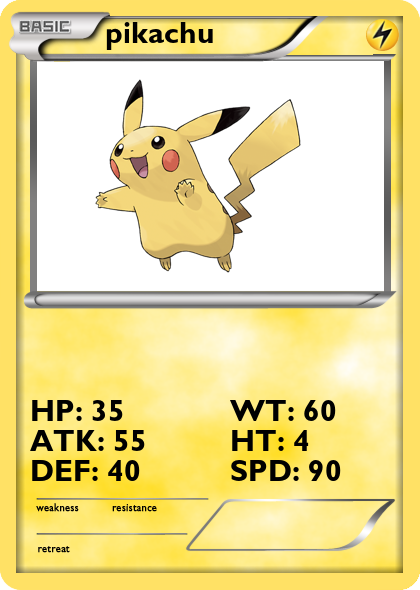
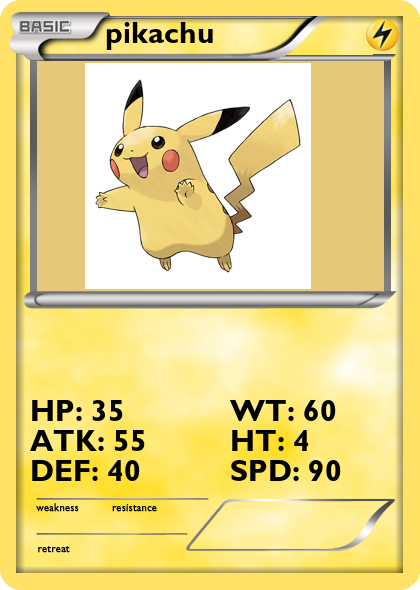
locate and apply dominant color in pokemon image

Changed region(s): [[0.0619, 0.0915, 0.9286, 0.5186]]

diff --git a/main.py b/main.py
@@ -1,0 +1,98 @@
+from PIL import Image, ImageDraw, ImageFont
+import requests
+from colorthief import ColorThief
+
+url = 'https://pokeapi.co/api/v2/pokemon/'
+
+def getInfo(call):
+  r = requests.get(call)
+  if r.status_code == 204:
+    return {'name': 'Null'}
+  return r.json()
+
+def getImage(link):
+   data = requests.get(link).content
+   f = open('temp/pokepic.png', 'wb')
+   f.write(data)
+   f.close()
+
+
+def get_pokemon():
+   try:
+      pokemon_search = input("Search for a pokemon: ")
+      pokemon_info = getInfo(url + pokemon_search)
+   except requests.exceptions.JSONDecodeError:
+      print('Invalid pokemon')
+      get_pokemon()
+
+   if pokemon_info['types'][0]['type']['name'] == 'colorless' or pokemon_info['types'][0]['type']['name'] == 'normal' or pokemon_info['types'][0]['type']['name'] == 'stellar' or pokemon_info['types'][0]['type']['name'] == 'unknown':
+      card_type = 'gfx/colorless.png'
+   elif pokemon_info['types'][0]['type']['name'] == 'dark' or pokemon_info['types'][0]['type']['name'] == 'ghost':
+      card_type = 'gfx/darkness.png'
+   elif pokemon_info['types'][0]['type']['name'] == 'dragon' or pokemon_info['types'][0]['type']['name'] == 'flying':
+      card_type = 'gfx/dragon.png'
+   elif pokemon_info['types'][0]['type']['name'] == 'fairy':
+      card_type = 'gfx/fairy.png'
+   elif pokemon_info['types'][0]['type']['name'] == 'fighting' or pokemon_info['types'][0]['type']['name'] == 'ground' or pokemon_info['types'][0]['type']['name'] == 'rock':
+      card_type = 'gfx/fighting.png'
+   elif pokemon_info['types'][0]['type']['name'] == 'fire':
+      card_type = 'gfx/fire.png'
+   elif pokemon_info['types'][0]['type']['name'] == 'grass' or pokemon_info['types'][0]['type']['name'] == 'bug':
+      card_type = 'gfx/grass.png'
+   elif pokemon_info['types'][0]['type']['name'] == 'electric':
+      card_type = 'gfx/electric.png'
+   elif pokemon_info['types'][0]['type']['name'] == 'metal' or pokemon_info['types'][0]['type']['name'] == 'steel':
+      card_type = 'gfx/metal.png'
+   elif pokemon_info['types'][0]['type']['name'] == 'psychic' or pokemon_info['types'][0]['type']['name'] == 'poison':
+      card_type = 'gfx/psychic.png'
+   elif pokemon_info['types'][0]['type']['name'] == 'water' or pokemon_info['types'][0]['type']['name'] == 'ice':
+      card_type = 'gfx/water.png'
+    
+   pokemon_name = pokemon_info['name']
+   pokemon_image = pokemon_info['sprites']['other']['official-artwork']['front_default']
+   pokemon_hp = "HP: " + str(pokemon_info['stats'][0]['base_stat'])
+   pokemon_atk = "ATK: " + str(pokemon_info['stats'][1]['base_stat'])
+   pokemon_def = "DEF: " + str(pokemon_info['stats'][2]['base_stat'])
+   pokemon_wt = "WT: " + str(pokemon_info['weight'])
+   pokemon_ht = "HT: " + str(pokemon_info['height'])
+   pokemon_spd = "SPD: " + str(pokemon_info['stats'][5]['base_stat'])
+
+   card = Image.open(card_type)
+   width, height = card.size 
+   font = ImageFont.truetype("Gill Sans Bold.otf", size=30)
+   draw = ImageDraw.Draw(card)
+   
+   draw.text(xy=(105,22), text=f'{pokemon_name}', fill = (0,0,0), font = font)
+   draw.text(xy=(30,400), text=f'{pokemon_hp}', fill = (0,0,0), font = font)
+   draw.text(xy=(30,430), text=f'{pokemon_atk}', fill = (0,0,0), font = font)
+   draw.text(xy=(30,460), text=f'{pokemon_def}', fill = (0,0,0), font = font)
+   draw.text(xy=(230,400), text=f'{pokemon_wt}', fill = (0,0,0), font = font)
+   draw.text(xy=(230,430), text=f'{pokemon_ht}', fill = (0,0,0), font = font)
+   draw.text(xy=(230,460), text=f'{pokemon_spd}', fill = (0,0,0), font = font)
+    
+   getImage(pokemon_image)
+   img = Image.open('temp/pokepic.png')
+   img = img.resize((226,226))
+
+   color_thief = ColorThief('temp/pokepic.png')
+   dominant_color = color_thief.get_color(quality=1)
+   r, g, b = (dominant_color)
+   color = Image.new('RGB',(347,230),(r,g,b))
+   
+   card.paste(color, (37,61))
+   card.paste(img, (90,63))
+
+
+
+   card.save('temp/card_final.png')
+   card.show()
+
+   print(card_type, pokemon_name, pokemon_hp, pokemon_atk, pokemon_def, pokemon_ht)
+
+
+
+
+
+   get_pokemon()
+
+get_pokemon()
